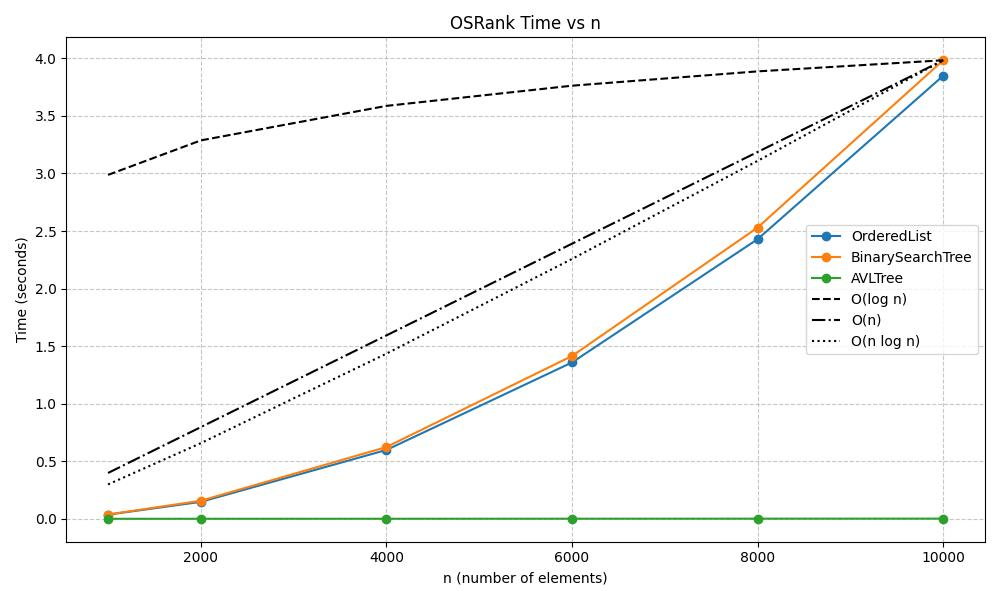
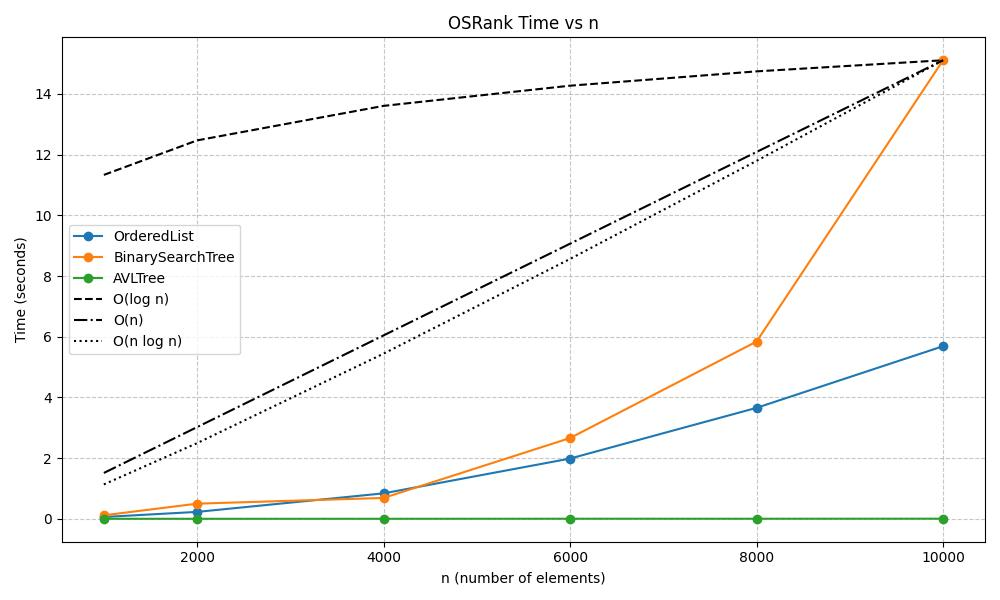
BinaryTree Fixes

diff --git a/DataStructure/BinarySearchTree.py b/DataStructure/BinarySearchTree.py
@@ -122,27 +122,28 @@ class BinarySearchTree(OrderStatisticStructure):
         else:
             return self.OSSelect(node.getRight(), i - left_size - 1)
 
-    def OSRank( self, x: TreeNode ) -> int:
+    def OSRank( self, node: TreeNode ) -> int:
         """
-            Return the rank (1-based index in inorder traversal) of node x.
+        Return the rank (0-based index in inorder traversal) of a given value in the BST.
 
-            Parameters:
-                x (TreeNode): The node whose rank we want to find.
+        Parameters:
+            node (TreeNode): The node to find the rank of.
 
-            Returns:
-                int: The rank of the node.
+        Returns:
+            int: The rank (number of nodes with value < input value).
+            :param node:
         """
-        node = self.__root
-        rank = 0
 
-        while node:
-            if x < node:
-                node = node.getLeft()
-            elif x > node:
-                rank += self._subtree_size(node.getLeft()) + 1
-                node = node.getRight()
-            else:
-                rank += self._subtree_size(node.getLeft()) + 1
-                break
+        rank = (self._subtree_size(node.getLeft())) + 1
+        node_t = node
+
+        while node_t != self.__root:
+            parent = node_t.getParent()
+            if node_t == parent.getRight():
+                left_size = self._subtree_size(parent.getLeft())
+                rank += left_size + 1
+            z = parent
 
         return rank
+
+

diff --git a/main.py b/main.py
@@ -65,9 +65,9 @@ if __name__ == '__main__':
 
         for value in values:
             ordered_list.insert(value)
-            bstNode = binary_tree.insert(bstNode, value)
+            bstNode = binary_tree.insert(binary_tree.getRoot(), value)
             listNodes.append(ListNode(value))
-            treeNodes.append(TreeNode(value))
+            treeNodes.append(bstNode)
             root_avl = avl_tree.insert(value, root_avl)
             avlNodes.append(root_avl)
 
